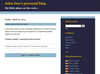
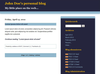
Fixed the stylesheet -- removed temporary instructions for responsive images

Changed region(s): [[0.63, 0.6216, 0.87, 1.0], [0.63, 0.3784, 0.78, 0.6216], [0.39, 0.6216, 0.48, 0.6486]]

diff --git a/less/resy.less b/less/resy.less
@@ -65,6 +65,3 @@ h1,h2,h3,h4,h5,h6 { font-family: Georgia, serif; }
 }
 
 @navigationBackgroundShadow: 	@lightColor;
-
-/* Responsive images: */
-article img{max-width:100% !important;}

diff --git a/production/style.css b/production/style.css
@@ -627,7 +627,3 @@ h6 {
   background: #91b7cc;
   font-weight: bold;
 }
-/* Responsive images: */
-article img {
-  max-width: 100% !important;
-}
